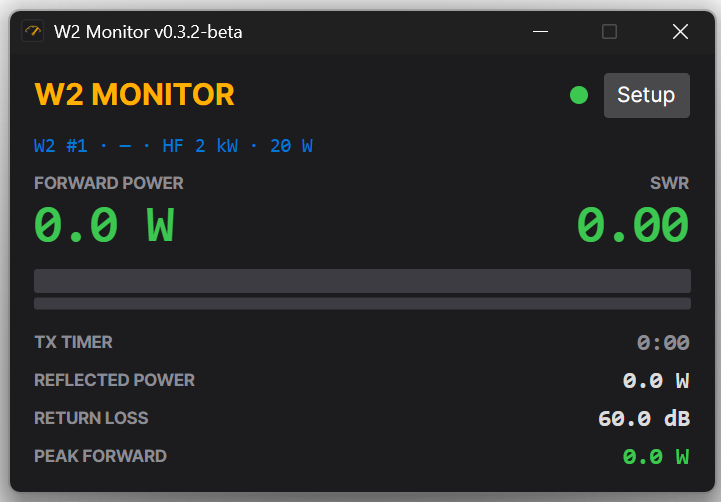
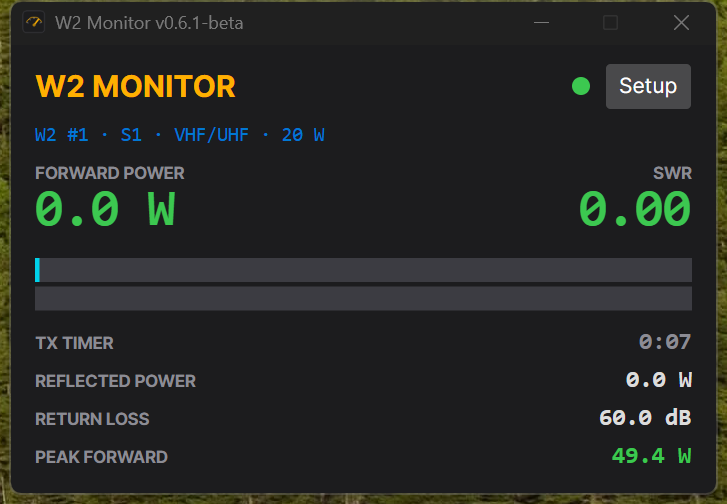
Refresh the README screenshots for 0.6.1-beta
All four shots were stale in different ways. main.png and transmitting.png were v0.3.2-beta, from
before the SWR alarm bar, the tabbed Setup and the Avalonia 12 chrome. setup.png was only hours old
but predated 0.6.1, so it showed exactly the flat underlined tabs that release replaced — and it had
caught the meter list before the cable serials resolved, so it read a bare "W2 #1 - COM7".

Recaptured on the station box against both real W2s, transmitting into a dummy load for the live one:
11.7 W, SWR 1.12, peak hold at 49.4 W. Per-meter windows were unticked for these so the main window
shows the single auto-focus view a one-meter user actually sees, headed W2 MONITOR, rather than a
window headed "W2 #1".

Added controls.png for the W2 Controls tab. The synced meter picker is invisible in a screenshot
otherwise, and the lit buttons double as a demonstration of the live lamp states — here Auto Sensor,
Auto Range and the sampler LEDs on, in PEP rather than average.

Removed overview.png. It went unreferenced when the Setup section was rewritten for 0.6.0-beta and was
the largest file in docs/.

Docs only.

Changed region(s): [[0.0, 0.0, 1.0, 1.0], [0.1526, 0.239, 0.3356, 0.2988], [0.3662, 0.239, 0.4577, 0.2988]]

diff --git a/README.md b/README.md
@@ -46,9 +46,18 @@ Transmitting — live power and SWR with the cyan peak-hold marker riding the ba
 
 ![Transmitting into a dummy load](docs/transmitting.png)
 
-The Setup window — tabbed into Meters, W2 Controls, SWR Alarm, Display and Updates:
+The Setup window — tabbed into Meters, W2 Controls, SWR Alarm, Display and Updates. Each meter is
+listed with the USB chip serial of the cable it's on, so the two are told apart by hardware rather
+than by whichever COM port Windows handed out this week:
 
 ![The Setup window](docs/setup.png)
+
+The W2 Controls tab. The meter picker at the top is the same selection as the Meters tab — pick a
+meter in either place and both follow, so there's never a doubt about which W2 a button is about to
+act on. Lit buttons show the meter's current state: here W2 #1 has Auto Sensor, Auto Range and its
+sampler LEDs on, and is in PEP rather than average:
+
+![The W2 Controls tab](docs/controls.png)
 
 ## Install
 
